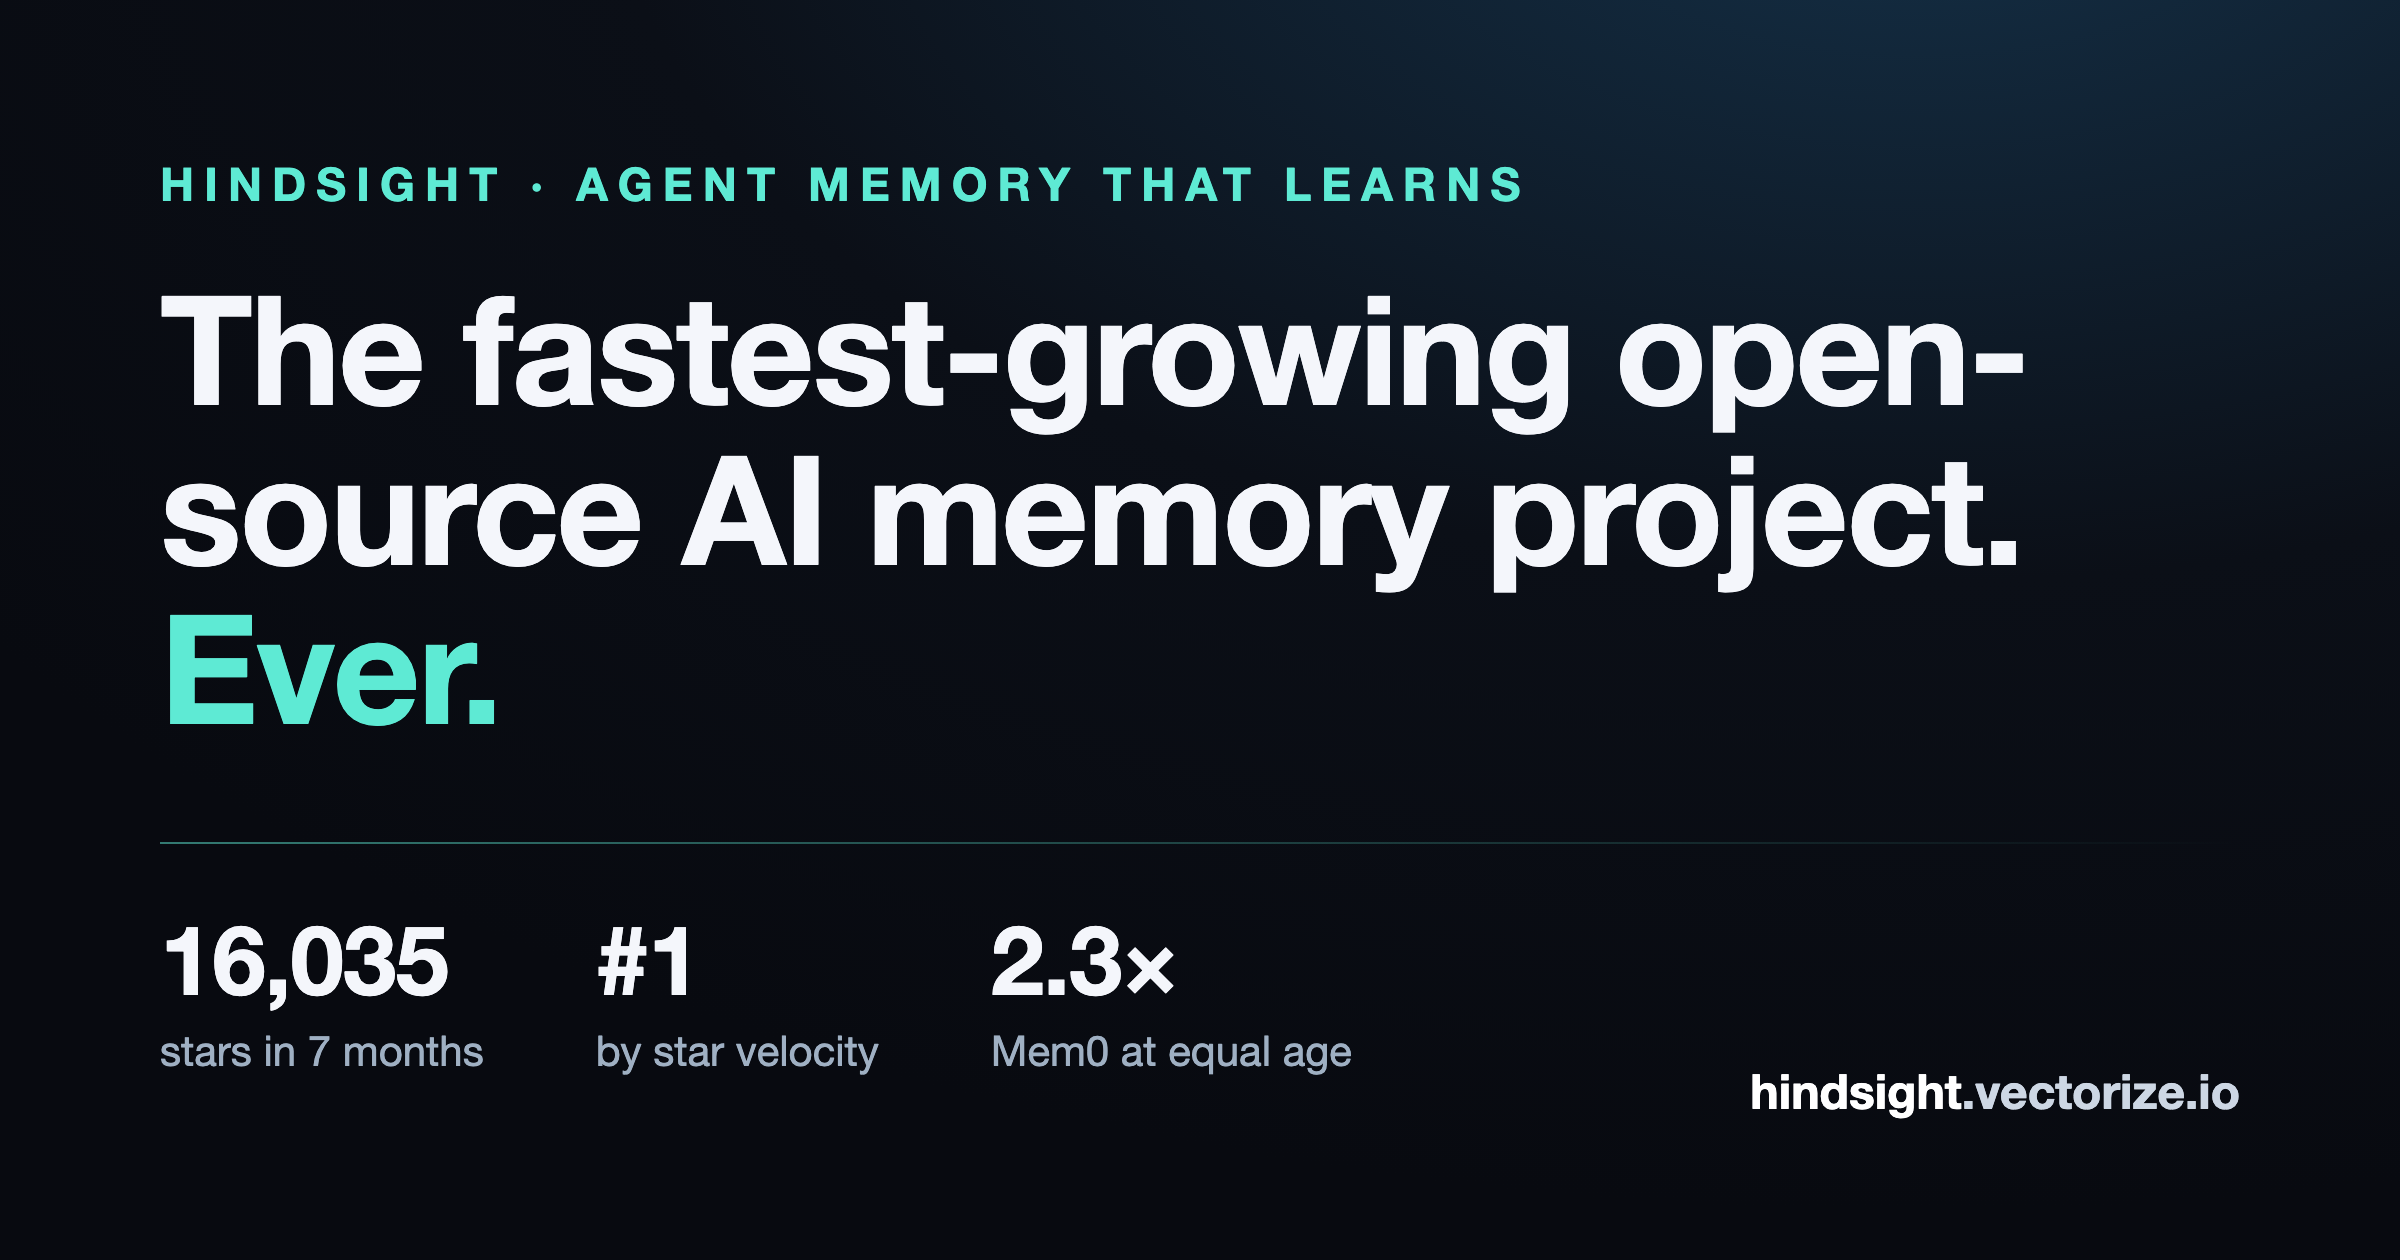
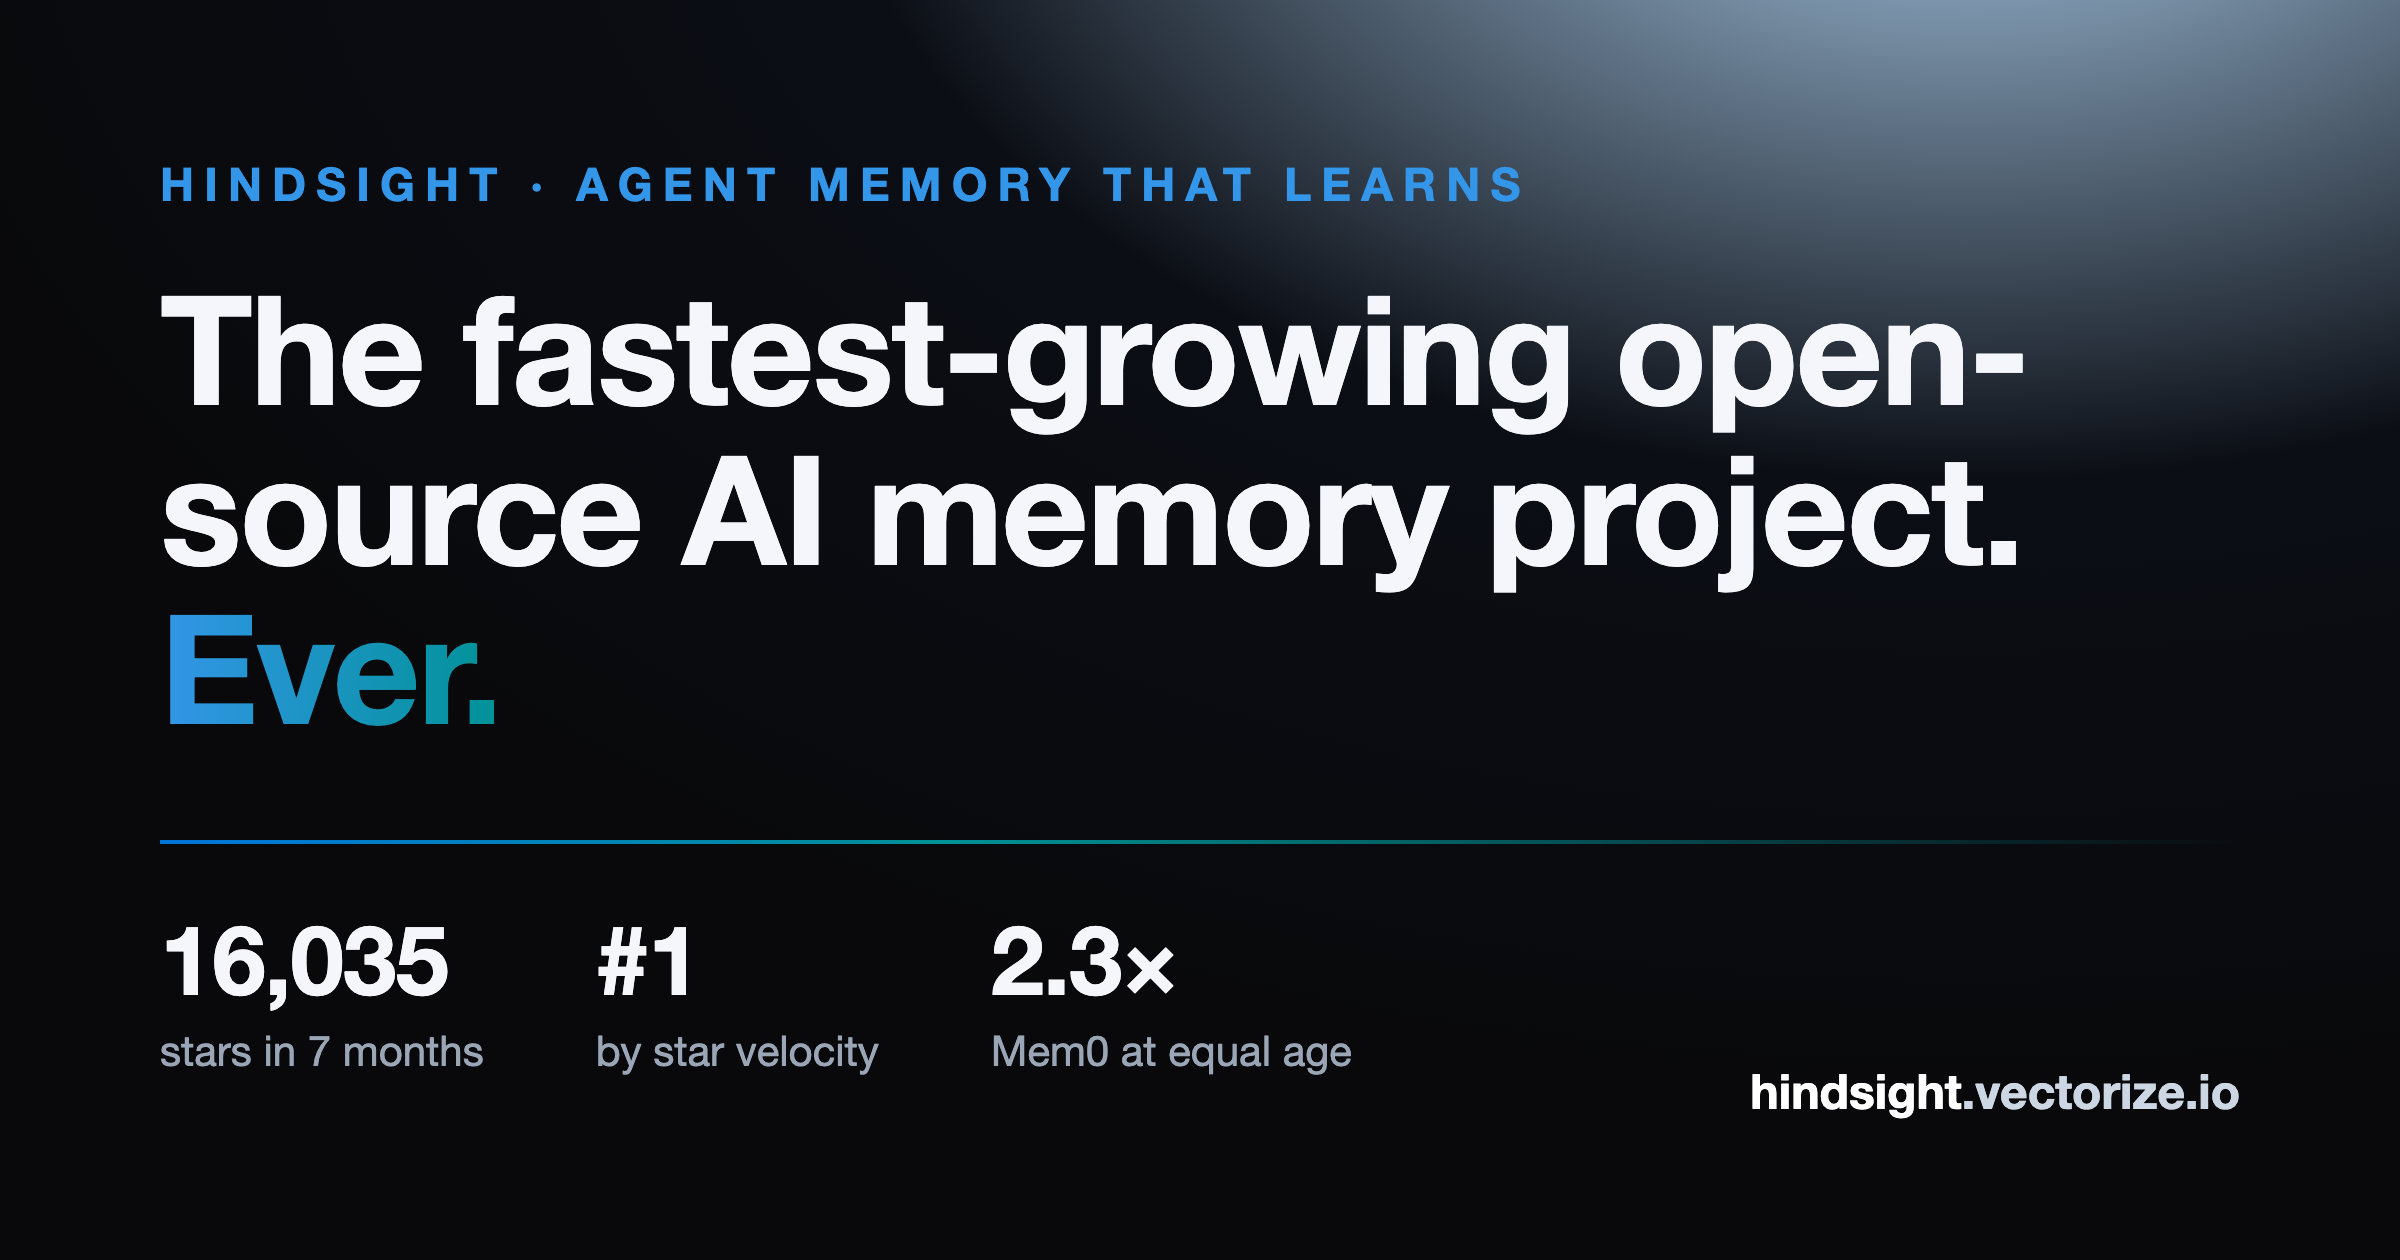
blog: add captured star-history chart (Hindsight steepest slope); align featured image to brand palette
- Embed a static capture of the overlaid star-history graph in the
  'still accelerating' section; Hindsight shows the steepest slope of
  any project. Replaces the unreliable live-URL embed (rate-limited).
- Recolor the featured/OG card to the Hindsight brand palette
  (#0074d9 -> #009296 gradient, #09090b background) instead of off-palette mint.

Changed region(s): [[0.0625, 0.0, 1.0, 0.3095], [0.0938, 0.65, 0.7188, 0.681], [0.0625, 0.4643, 0.2188, 0.5881]]

diff --git a/hindsight-docs/blog/2026-06-09-fastest-growing-oss-ai-memory.md b/hindsight-docs/blog/2026-06-09-fastest-growing-oss-ai-memory.md
@@ -78,6 +78,10 @@ Hindsight didn't lead from day one — and that's the most encouraging part of t
 
 And note the contrast in *shape*. The bought-star project's growth was a single vertical wall in week one. Hindsight's is a months-long ramp that gets steeper as more people use it — the signature of real word-of-mouth, not a one-time transaction. That inflection tracks with the moment production deployments started working, the integration ecosystem filled out, and the [BEAM benchmark results](https://hindsight.vectorize.io/blog/2026/04/02/beam-sota) gave teams a reason to trust agent memory enough to build on it. People didn't star Hindsight on launch-day hype. They starred it after they used it.
 
+The picture is starkest in absolute time. Hindsight is the red line in the bottom-right corner — a near-vertical climb to 16,000 stars, the steepest slope on the chart, while every older and larger project rises gradually:
+
+[![GitHub star-history comparison showing Hindsight with the steepest slope of any agent-memory project, despite being the youngest line by years](/img/blog/star-history-comparison.png)](https://star-history.com/#vectorize-io/hindsight&mem0ai/mem0&supermemoryai/supermemory&letta-ai/letta&getzep/graphiti&topoteretes/cognee&Date)
+
 ---
 
 ## How we measured this
@@ -93,10 +97,6 @@ So you can reproduce it:
 A few details worth naming. Mem0's repository began life as *embedchain* before it was renamed, so its first 222 days partly reflect a different project's early audience — which only flatters Mem0's numbers, and Hindsight still leads by 2.3×. Letta's repository was originally *MemGPT*, which went viral on release, making it the strongest honest comparison on the list; Hindsight still beats its day-222 count by 1.6×. And Supermemory isn't actually open source in the way Hindsight is — its core product is closed, and the public repository is a companion to a proprietary service. We include it because its stars are still a meaningful proxy for developer interest in that product, but it's worth being clear that it's not a like-for-like open-source comparison: Hindsight's stars measure adoption of the actual thing you run, not interest in a closed system behind it.
 
 One last note on what stars do and don't mean: they measure mindshare and momentum, not revenue or production usage. This is a growth claim. For the adoption story, see the [10,000-stars retrospective](https://hindsight.vectorize.io/blog/2026/04/22/hindsight-10k-stars).
-
-Here's the live star-history chart for the legitimately-grown set, in absolute time:
-
-[![Star History Chart](https://api.star-history.com/svg?repos=vectorize-io/hindsight,mem0ai/mem0,supermemoryai/supermemory,letta-ai/letta,getzep/graphiti,topoteretes/cognee&type=Date)](https://star-history.com/#vectorize-io/hindsight&mem0ai/mem0&supermemoryai/supermemory&letta-ai/letta&getzep/graphiti&topoteretes/cognee&Date)
 
 ---
 